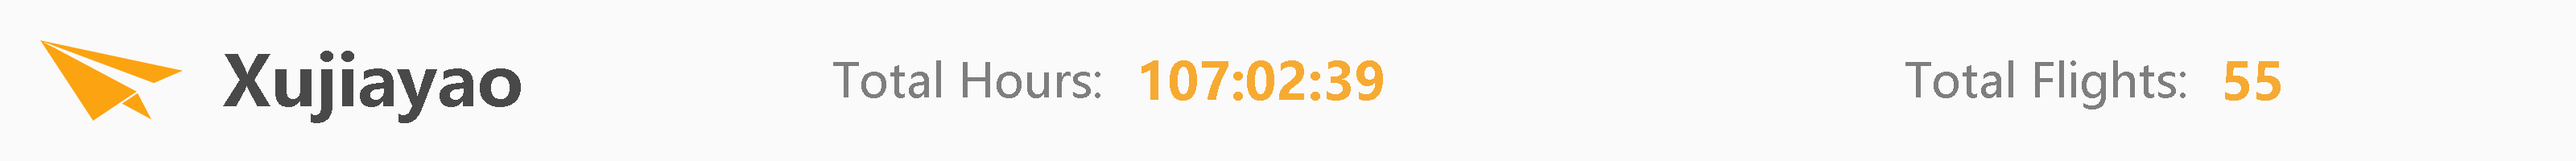
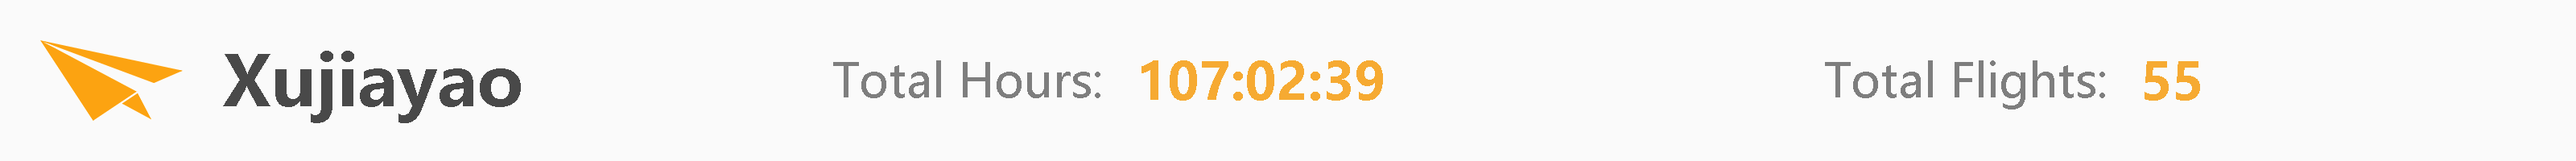
修复bug

Changed region(s): [[0.6875, 0.36, 0.9062, 0.69]]

diff --git a/src/main/java/top/xujiayao/gifSignaturesGenerator/ui/MainUI.java b/src/main/java/top/xujiayao/gifSignaturesGenerator/ui/MainUI.java
@@ -186,7 +186,7 @@ public class MainUI {
 
 		contextMenu.getItems().addAll(menuItem1, menuItem2, menuItem3);
 
-		root.getChildren().add(Panes.pane1());
+		root.getChildren().add(Main.panes.pane1());
 
 		menuItem1.setOnAction(e -> Dialogs.showPreferencesDialog());
 
@@ -233,7 +233,7 @@ public class MainUI {
 		minimizeButton.setOnAction(e -> stage.setIconified(true));
 
 		backButton.setOnAction(e -> {
-			switch (Panes.paneShowing) {
+			switch (Main.panes.paneShowing) {
 				case 1 -> {
 					stage.close();
 					new LoginUI().start(stage);
@@ -241,7 +241,7 @@ public class MainUI {
 				case 2 -> {
 					try {
 						root.getChildren().remove(4);
-						root.getChildren().add(Panes.pane1());
+						root.getChildren().add(Main.panes.pane1());
 
 						System.gc();
 					} catch (Exception e1) {
@@ -251,7 +251,7 @@ public class MainUI {
 				case 3 -> {
 					try {
 						root.getChildren().remove(4);
-						root.getChildren().add(Panes.pane2());
+						root.getChildren().add(Main.panes.pane2());
 
 						nextButton.setText("下一步");
 
@@ -264,16 +264,18 @@ public class MainUI {
 		});
 
 		nextButton.setOnAction(e -> {
-			switch (Panes.paneShowing) {
+			switch (Main.panes.paneShowing) {
 				case 1 -> {
 					if (!Avatar.success) {
 						Dialogs.showErrorDialog("发生错误", "头像必须先处理成功才能继续下一步。");
 						return;
 					}
 
+					Main.projectFlyData.profileData[0] = Main.panes.field5.getText();
+
 					try {
 						root.getChildren().remove(4);
-						root.getChildren().add(Panes.pane2());
+						root.getChildren().add(Main.panes.pane2());
 
 						System.gc();
 					} catch (Exception e1) {
@@ -367,7 +369,7 @@ public class MainUI {
 				Platform.runLater(() -> {
 					try {
 						root.getChildren().remove(4);
-						root.getChildren().add(Panes.pane3());
+						root.getChildren().add(Main.panes.pane3());
 
 						nextButton.setText("退出");
 

diff --git a/src/main/java/top/xujiayao/gifSignaturesGenerator/tools/GeneratePNG.java b/src/main/java/top/xujiayao/gifSignaturesGenerator/tools/GeneratePNG.java
@@ -72,20 +72,20 @@ public class GeneratePNG {
 				g.setFont(new Font("Microsoft YaHei", Font.PLAIN, 58));
 
 				switch (i) {
-					case 1 -> g.drawString("Total Flights:", 2366, 121);
-					case 3 -> g.drawString("Fav Airport:", 2394, 121);
-					case 4 -> g.drawString("Visited Countries:", 2233, 121);
-					case 5 -> g.drawString("Achvs Completed:", 2218, 121);
+					case 1 -> g.drawString("Total Flights:", 2266, 121);
+					case 3 -> g.drawString("Fav Airport:", 2299, 121);
+					case 4 -> g.drawString("Visited Countries:", 2133, 121);
+					case 5 -> g.drawString("Achvs Completed:", 2118, 121);
 				}
 
 				g.setColor(new Color(246, 170, 50));
 				g.setFont(new Font("Microsoft YaHei", Font.BOLD, 64));
 
 				switch (i) {
-					case 1 -> g.drawString(Main.projectFlyData.profileData[2], 2759, 124);
-					case 3 -> g.drawString(Main.projectFlyData.logbookData[0], 2759, 124);
-					case 4 -> g.drawString(Main.projectFlyData.passportData, 2759, 124);
-					case 5 -> g.drawString(Main.projectFlyData.profileData[1], 2759, 124);
+					case 1 -> g.drawString(Main.projectFlyData.profileData[2], 2659, 124);
+					case 3 -> g.drawString(Main.projectFlyData.logbookData[0], 2659, 124);
+					case 4 -> g.drawString(Main.projectFlyData.passportData, 2659, 124);
+					case 5 -> g.drawString(Main.projectFlyData.profileData[1], 2659, 124);
 				}
 
 				g.dispose();

diff --git a/src/main/java/top/xujiayao/gifSignaturesGenerator/ui/Panes.java b/src/main/java/top/xujiayao/gifSignaturesGenerator/ui/Panes.java
@@ -25,9 +25,11 @@ import java.util.Objects;
  */
 public class Panes {
 
-	public static int paneShowing;
+	public int paneShowing;
 
-	public static Pane pane1() {
+	public TextField field5;
+
+	public Pane pane1() {
 		paneShowing = 1;
 
 		Pane pane = new Pane();
@@ -116,7 +118,7 @@ public class Panes {
 		text5.setLayoutX(10);
 		text5.setLayoutY(278);
 
-		TextField field5 = new TextField(Main.projectFlyData.profileData[0]);
+		field5 = new TextField(Main.projectFlyData.profileData[0]);
 		field5.setStyle("-fx-background-color: #F5F5F5; -fx-border-width: 0px 0px 2px 0px; -fx-border-color: #24292E; -fx-text-inner-color: #24292E");
 		field5.setPrefSize(420, 25);
 		field5.setFont(new Font("Microsoft YaHei", 12));
@@ -212,7 +214,7 @@ public class Panes {
 		return pane;
 	}
 
-	public static Pane pane2() {
+	public Pane pane2() {
 		paneShowing = 2;
 
 		Pane pane = new Pane();
@@ -298,7 +300,7 @@ public class Panes {
 		return pane;
 	}
 
-	public static Pane pane3() {
+	public Pane pane3() {
 		paneShowing = 3;
 
 		Pane pane = new Pane();

diff --git a/src/main/java/top/xujiayao/gifSignaturesGenerator/Main.java b/src/main/java/top/xujiayao/gifSignaturesGenerator/Main.java
@@ -9,6 +9,7 @@ import top.xujiayao.gifSignaturesGenerator.tools.Update;
 import top.xujiayao.gifSignaturesGenerator.tools.Variables;
 import top.xujiayao.gifSignaturesGenerator.ui.Dialogs;
 import top.xujiayao.gifSignaturesGenerator.ui.LoginUI;
+import top.xujiayao.gifSignaturesGenerator.ui.Panes;
 import top.xujiayao.gifSignaturesGenerator.ui.SystemTray;
 
 /**
@@ -18,6 +19,7 @@ public class Main extends Application {
 
 	public static SystemTray systemTray;
 	public static Update update;
+	public static Panes panes;
 
 	public static Variables.ProjectFly projectFlyData;
 

diff --git a/src/main/java/top/xujiayao/gifSignaturesGenerator/tools/ParseJSON.java b/src/main/java/top/xujiayao/gifSignaturesGenerator/tools/ParseJSON.java
@@ -45,11 +45,11 @@ public class ParseJSON {
 				}
 
 				if (temp == null) {
-					temp = data.substring(0, data.indexOf("\""));
+					temp = data.substring(0, data.indexOf("\\/"));
 					continue;
 				}
 
-				routes[(i + 1) / 2 - 1] = temp + " - " + data.substring(0, data.indexOf("\""));
+				routes[(i + 1) / 2 - 1] = temp + " - " + data.substring(0, data.indexOf("\\/"));
 				temp = null;
 			}
 

diff --git a/src/main/java/top/xujiayao/gifSignaturesGenerator/ui/LoginUI.java b/src/main/java/top/xujiayao/gifSignaturesGenerator/ui/LoginUI.java
@@ -382,6 +382,8 @@ public class LoginUI {
 				Main.systemTray.trayIcon.displayMessage("GIF签名图生成工具", "登录成功", TrayIcon.MessageType.NONE);
 
 				Platform.runLater(() -> {
+					Main.panes = new Panes();
+
 					Main.stage.close();
 					new MainUI().start(Main.stage);
 				});

diff --git a/src/main/java/top/xujiayao/gifSignaturesGenerator/tools/Variables.java b/src/main/java/top/xujiayao/gifSignaturesGenerator/tools/Variables.java
@@ -251,7 +251,6 @@ public class Variables {
 		}
 	}
 
-	// 这里以后改成不要static的，避免浪费资源，在login的时候才new一个
 	// projectFLY 需要使用的变量
 	public static class ProjectFly {
 		// 解析过的 LoginAPI 返回的数据
